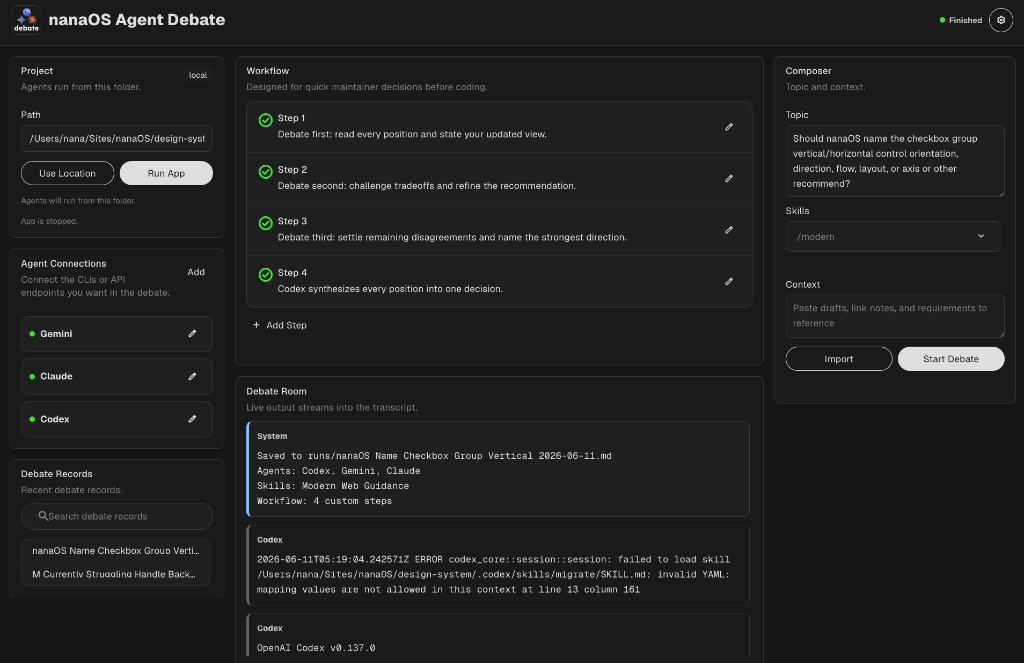
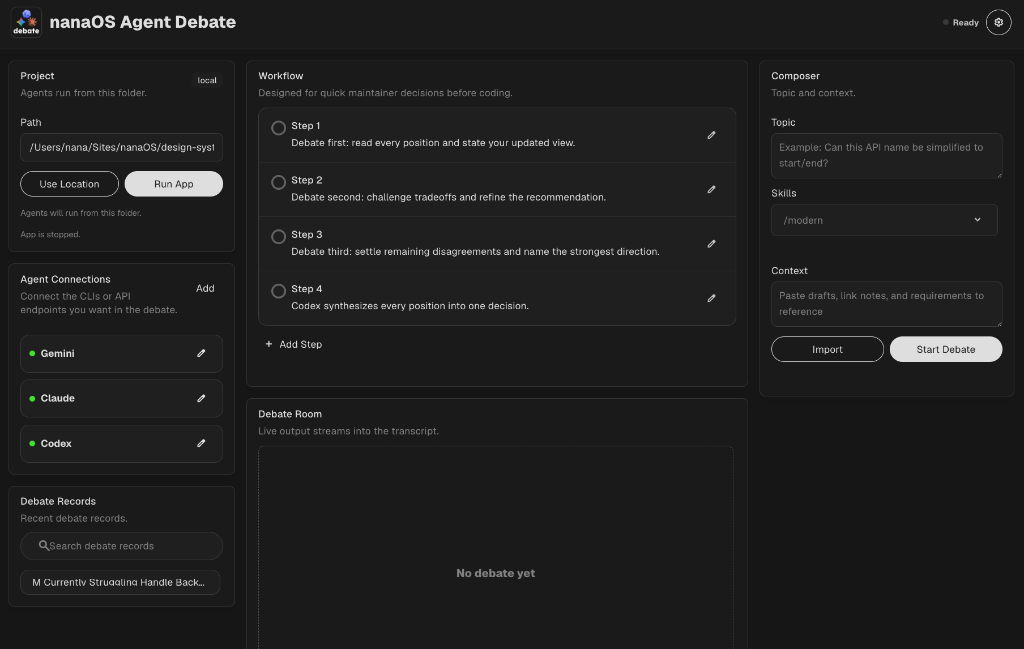
Update README with clean main dashboard and add debate error screenshot

diff --git a/README.md b/README.md
@@ -12,6 +12,8 @@ The app is designed for maintainers who want a fast second opinion before changi
 
 ![Main Dashboard](public/assets/main-dashboard.png)
 
+![Debate Run Error](public/assets/debate-error.png)
+
 ![Run Details](public/assets/run-details.png)
 
 ![Footer screenshot](public/assets/footer.png)